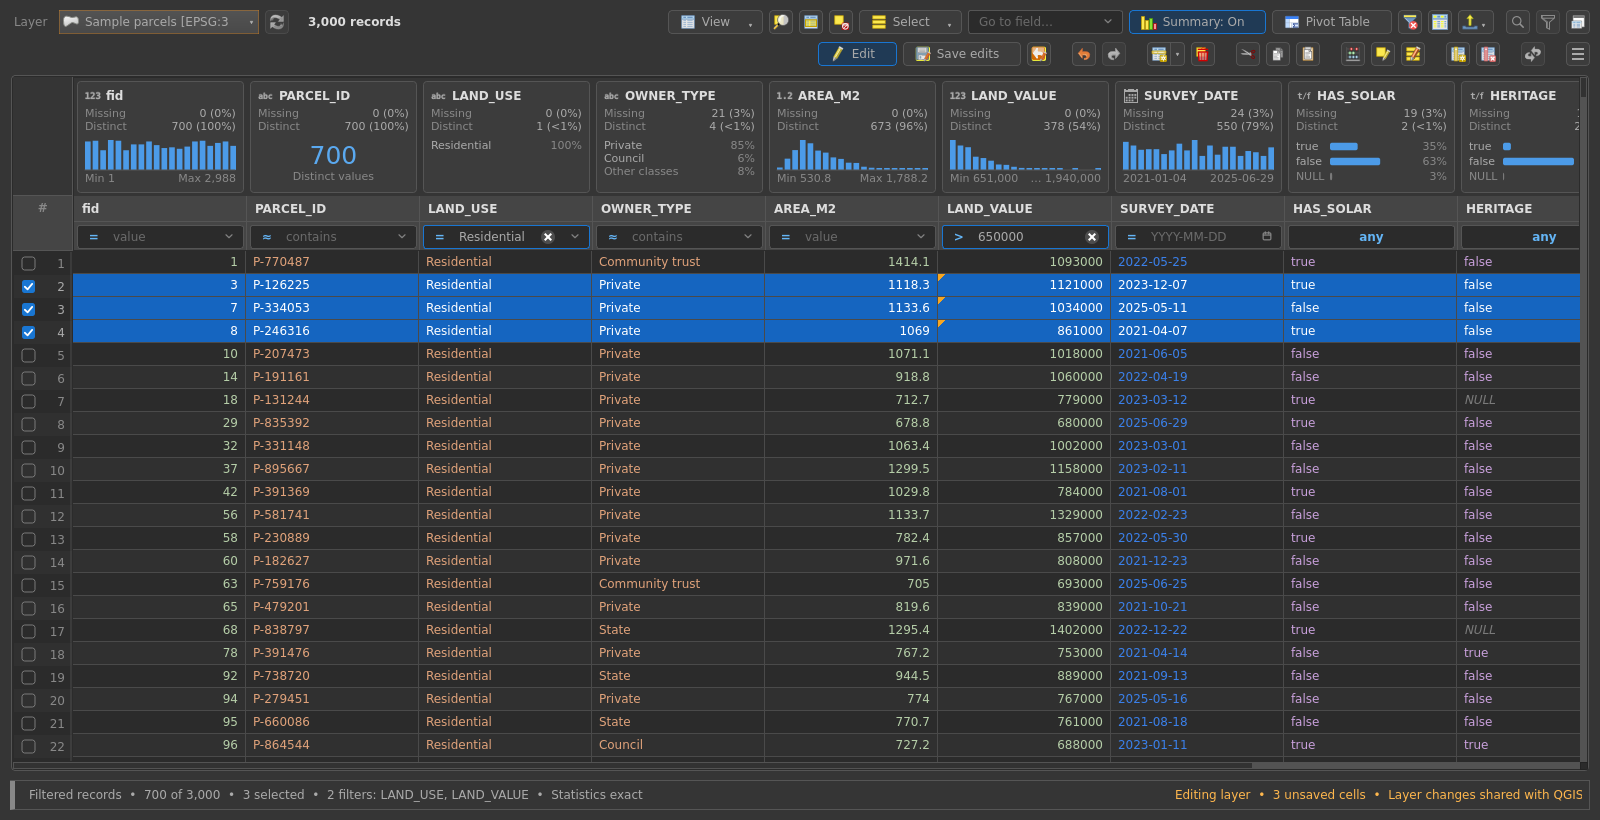
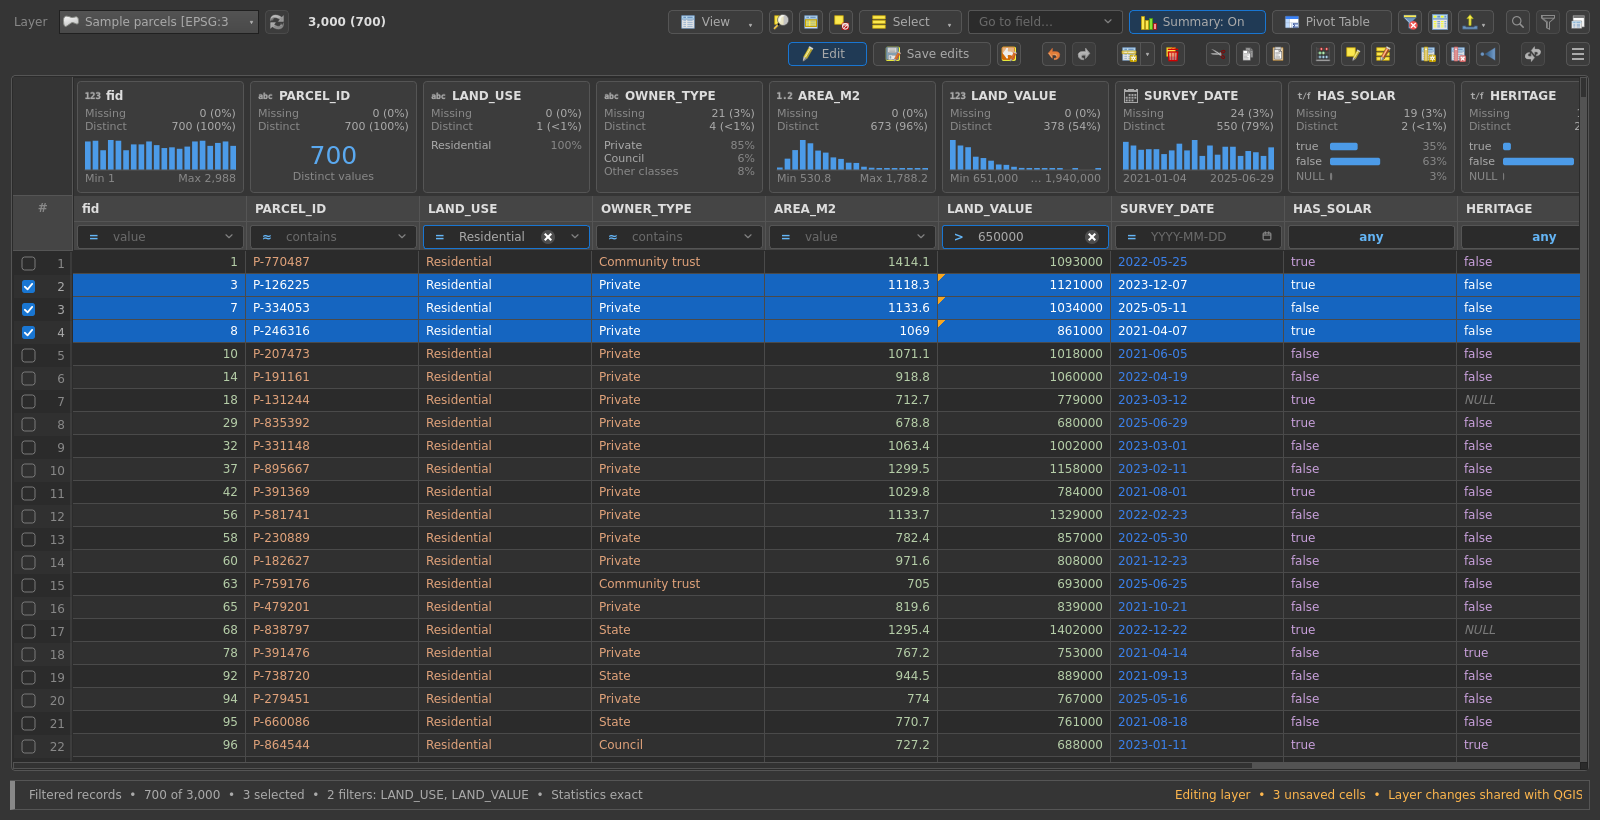
Docs: regenerate the README screenshots; add the Join table window
All screenshots retaken from the made-up dataset (dark and light): they now
show the record count as total (shown) and the Join table button in the edit
row. New dark_join_table.png (a made-up land use zones table) under the
README's Join table entry.

Claude-Session: https://claude.ai/code/session_01WzmTZVv7prW4LhcmkwE1Ve

Changed region(s): [[0.4688, 0.0305, 0.9375, 0.0915], [0.2188, 0.0, 0.25, 0.0305]]

diff --git a/tests/qgis/make_screenshots.py b/tests/qgis/make_screenshots.py
@@ -233,6 +233,31 @@ if THEME == "dark":
     save(cell.op_menu, "filter_menu")
     cell.op_menu.hide()
 
+    # Join table: a made-up zones table (one land use missing, so not every
+    # record matches)
+    from attribute_table_studio.ui.explorer_join import JoinTableDialog
+    zones = QgsVectorLayer("None?field=LAND_USE:string(20)&field=ZONE:string(10)"
+                           "&field=MAX_STOREYS:integer&field=LU_CODE:string(4)",
+                           "Land use zones", "memory")
+    zone_rows = [("Residential", "R2", 3, "RES"), ("Commercial", "B4", 8, "COM"),
+                 ("Industrial", "IN1", 3, "IND"), ("Rural", "RU1", 2, "RUR"),
+                 ("Open space", "RE1", 1, "OSP")]
+    feats = []
+    for values in zone_rows:
+        f = QgsFeature(zones.fields())
+        f.setAttributes(list(values))
+        feats.append(f)
+    zones.dataProvider().addFeatures(feats)
+    QgsProject.instance().addMapLayer(zones)
+    dlg = JoinTableDialog(ex)
+    dlg.layer_combo.setLayer(zones)
+    H.wait_for(lambda: dlg.counts is not None, 30)
+    dlg.show()
+    dlg.resize(600, dlg.sizeHint().height())
+    save(dlg, "join_table")
+    dlg.reject()
+    QgsProject.instance().removeMapLayer(zones.id())
+
 # editing: a second filter, three selected rows, three unsaved values
 filt(ex, "LAND_VALUE", F.INTEGER, "gt", "650000")
 ex.refresh()

diff --git a/README.md b/README.md
@@ -182,6 +182,8 @@ attribute table and every other QGIS tool.
   matching row). Pick the fields to add and their name prefix; names the
   layer already has are flagged, since QGIS leaves them out. *Joins on this
   layer* lists the joins with Remove.
+
+  ![Join table](docs/screenshots/dark_join_table.png)
 - **Advanced Filter (Expression)** is edited in place, as in QGIS's attribute
   table: a bar on the left of the edit row with QGIS's expression box —
   *Enter* or *Apply* applies, an invalid expression says why, *Escape* puts
